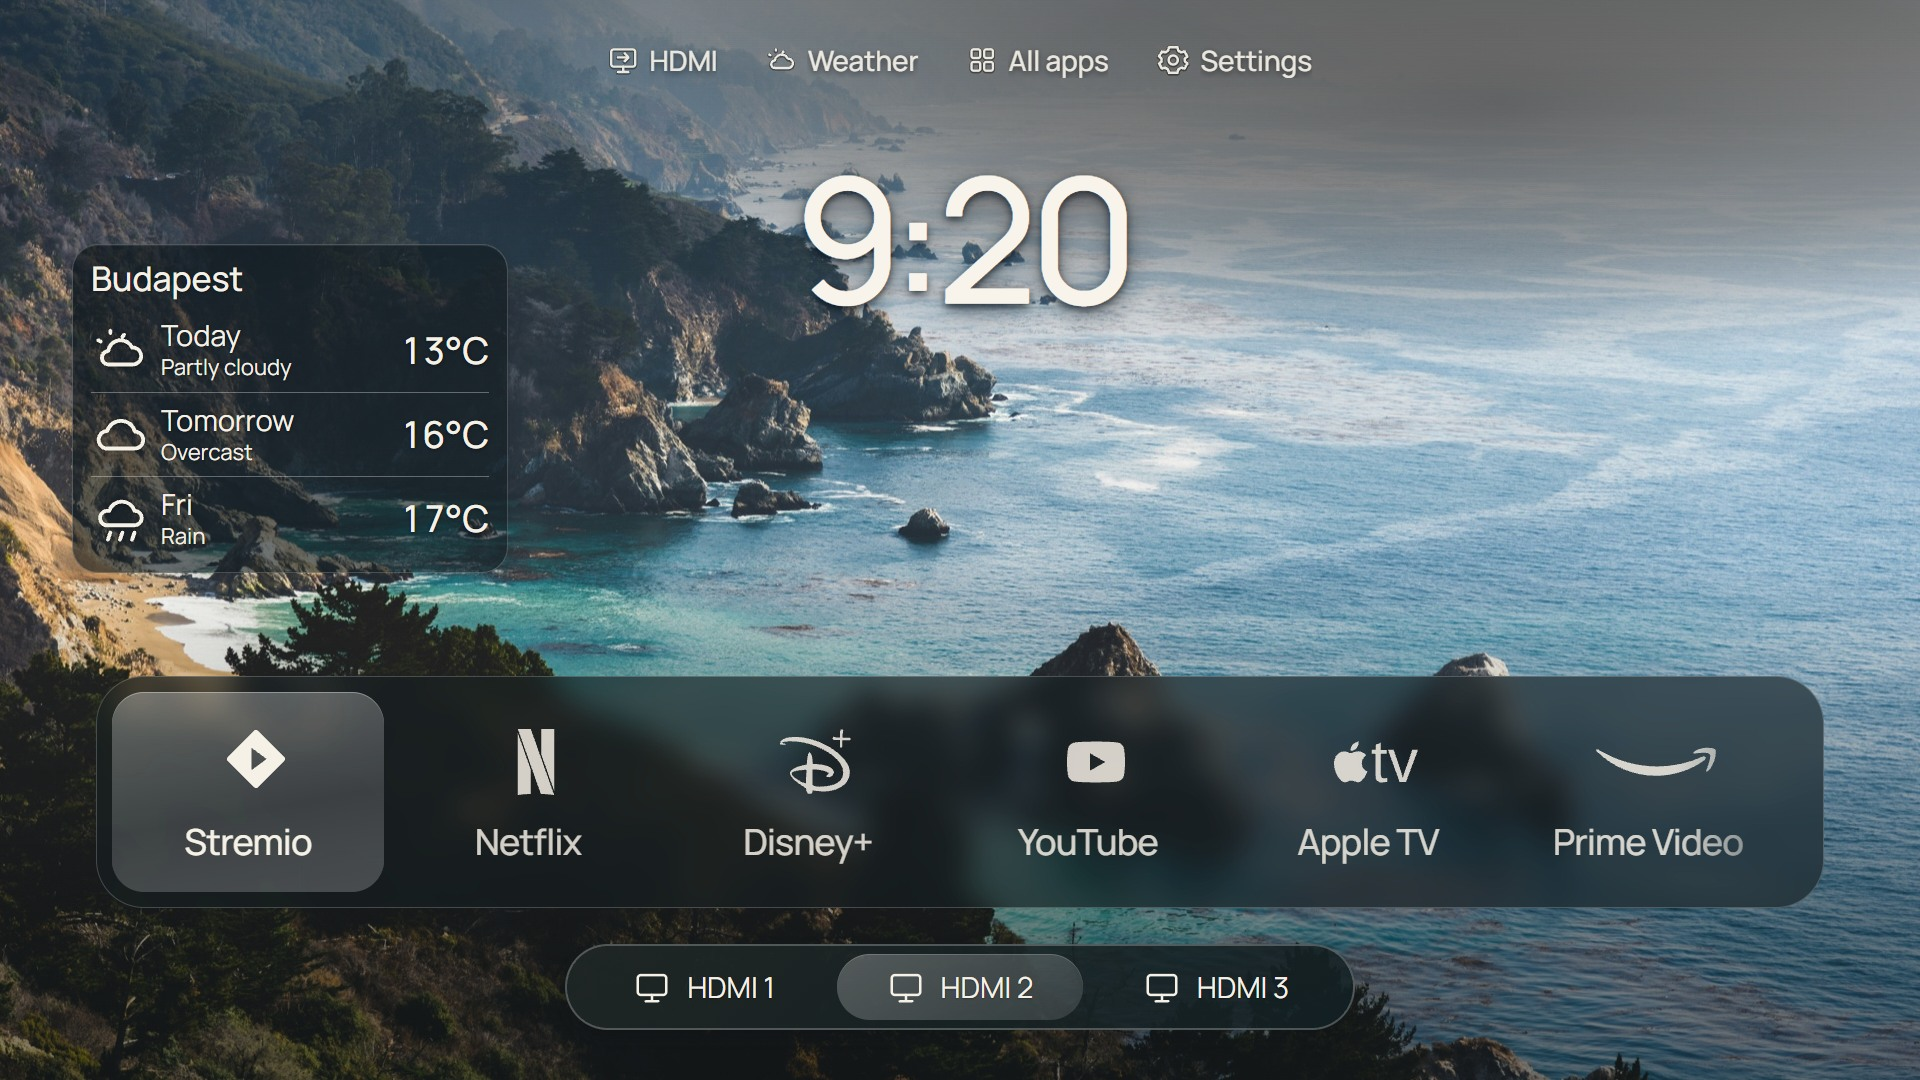
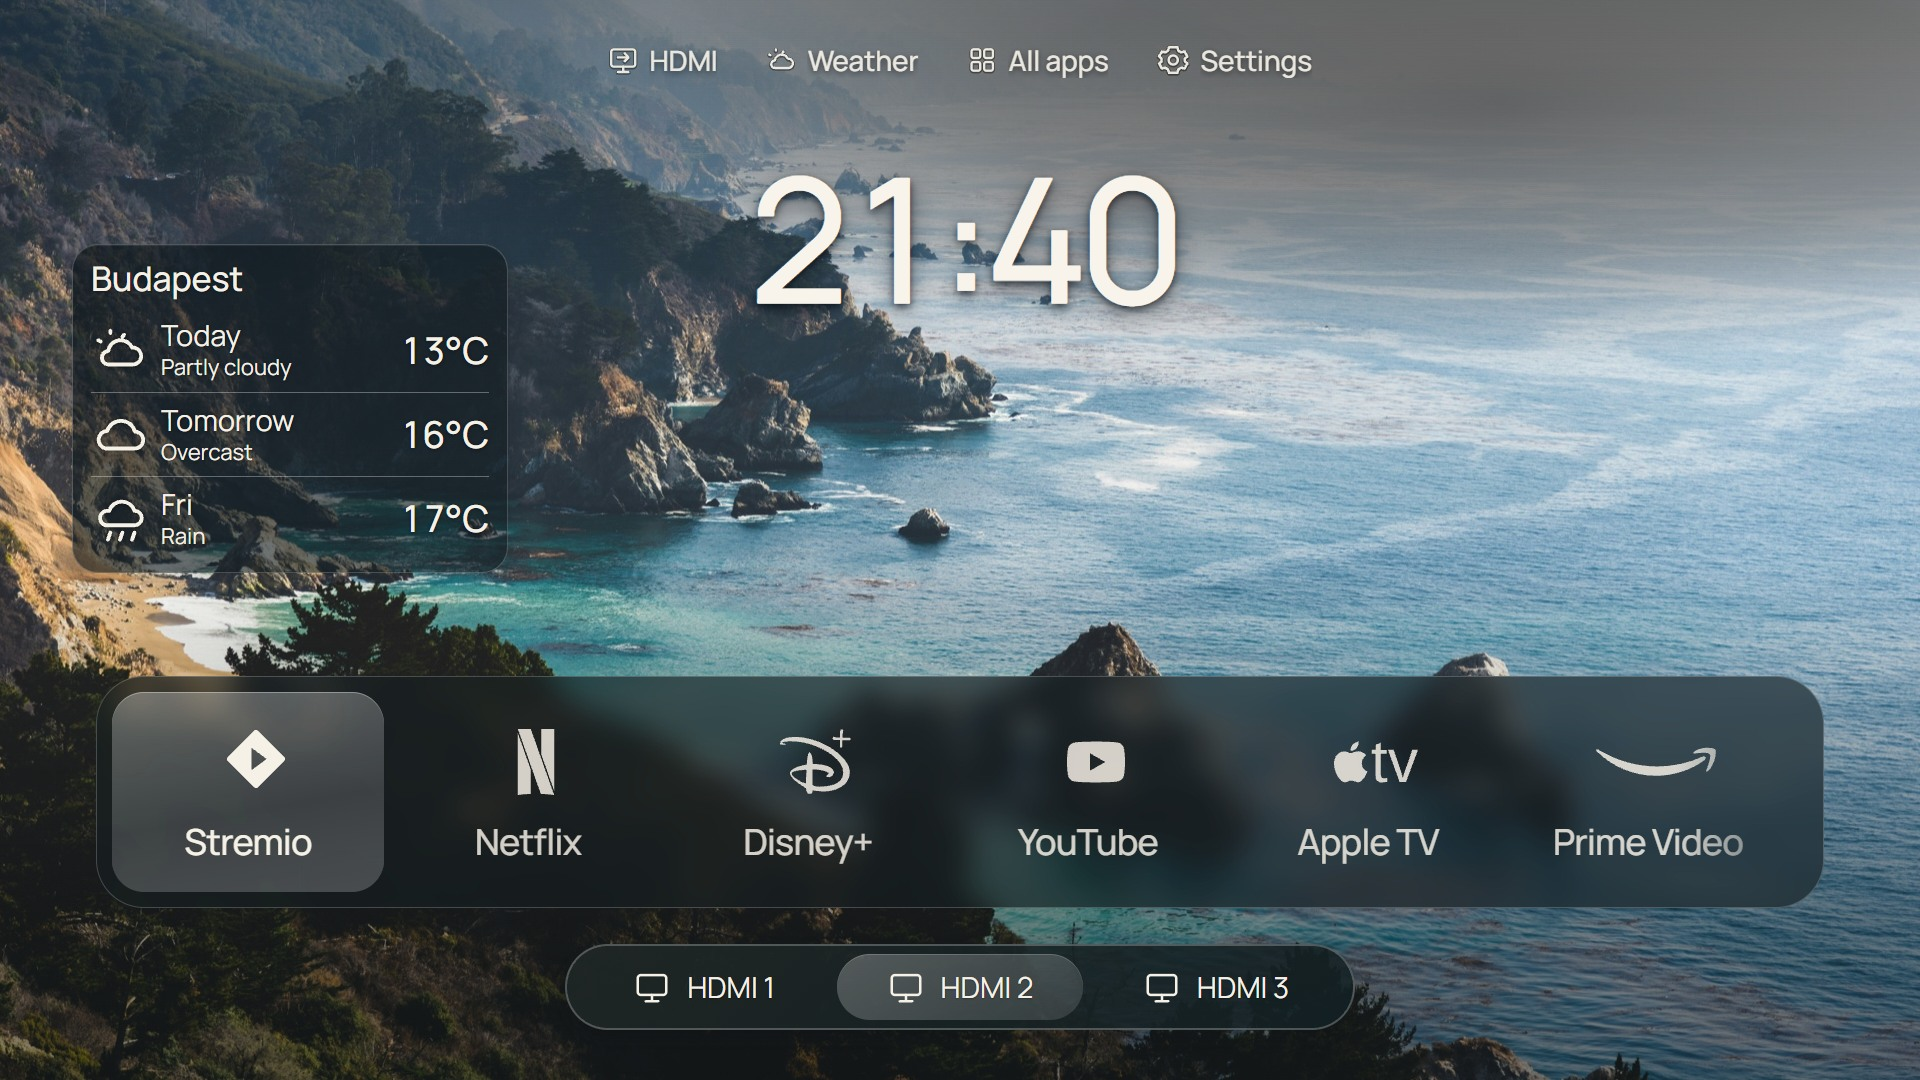
Document the public CleanFrame build and installation

Changed region(s): [[0.375, 0.1528, 0.625, 0.3056]]

diff --git a/samsung/cleanframe/README.md b/samsung/cleanframe/README.md
@@ -1,23 +1,69 @@
-# Build the local CleanFrame adaptation
+# Install CleanFrame 0.7.7 on a Samsung TV
 
-Use CleanFrame commit [845f332d083502fab39be49869052966103b564a](https://github.com/nthnclrk/CleanFrame/tree/845f332d083502fab39be49869052966103b564a). The archived 0.7.7 patch adds the HDMI manager and shortcuts, three-day weather, and the final Dock layout. The build script sets the local package identity and 24-hour clock. Its separately signed startup app opens CleanFrame from a Tizen Web Service. No native Home integration is part of the build.
+This adaptation of [Nathan Clark's CleanFrame](https://github.com/nthnclrk/CleanFrame) installs as a Tizen web app. Start with the launcher by itself. The separate startup helper is optional.
 
-1. In a clean checkout of the pinned upstream commit, apply this archive's `samsung/cleanframe/cleanframe-0.7.7.patch`. Replace the example path with the absolute path to your archive checkout.
+## 1. Prepare the TV and PC
 
-   ```text
-   git apply --check <archive-path>/samsung/cleanframe/cleanframe-0.7.7.patch
-   git apply <archive-path>/samsung/cleanframe/cleanframe-0.7.7.patch
-   python -B scripts/export-public.py
-   ```
+- Check your model and firmware in the TV's About or Support screen. The reference TV is a UE43RU7102KXXH running Tizen 5.0 with firmware T-MSLDEUC-1500.9. See the [device test record](../../docs/CLEANFRAME-TV.md).
+- Install Git, Python 3, and the Samsung TV development tools for VS Code, including Device Manager and Certificate Manager. Keep the TV and PC on the same local network. [Samsung VS Code SDK guide](https://developer.samsung.com/smarttv/develop/tools/additional-tools/vscode-extension-new.html)
+- On the TV, open **Apps**, enter **12345** using the remote or its virtual keypad, enable **Developer Mode**, and enter the PC's local IPv4 address. Restart the TV and connect to its current address in **Device Manager**. Confirm that the model shown in Device Manager is the one you intend to use. [Samsung device connection guide](https://developer.samsung.com/smarttv/develop/tools/additional-tools/vscode/connecting-to-tv-device.html)
+- Create a Samsung TV certificate profile. Include this TV's DUID in its distributor certificate and complete Samsung sign-in in Certificate Manager. Authorize the TV for app installation if Device Manager requires it. The launcher uses public privileges. Keep your author key for future updates and store all signing material outside the repository. [Samsung certificate guide](https://developer.samsung.com/smarttv/develop/tools/additional-tools/vscode/creating-certificates.html)
 
-   The export writes `dist/CleanFrame-public-unsigned.wgt`.
-2. Generate a TV web project in Samsung's SDK. Keep its `config.xml` to reuse the same app ID for future builds.
-3. From this archive's root, run:
+## 2. Build the unsigned widget
 
-   ```text
-   python -B samsung/cleanframe/build-cleanframe-local.py <upstream-public-unsigned.wgt> <sdk-project-config.xml>
-   ```
+Clone or download this repository. In VS Code, create a Samsung TV **web** project in a separate local folder. Its `config.xml` provides the generated package and application IDs. If updating an existing install, use its original manifest and author key to retain that identity.
 
-4. The script writes both unsigned WGT files into `dist/`. Sign them separately with Samsung's SDK using your local device-bound profile. The on-boot service uses a Partner distributor certificate. Install the CleanFrame widget first, then CleanFrame Startup, using the SDK. The TV needs no PC connection at runtime.
+Open PowerShell at this repository's root, then run the following. Replace the example SDK manifest path.
 
-See the [TV verification record](../../docs/CLEANFRAME-TV.md) for the exact scope of device checks. The upstream launcher and bundled assets are governed by the upstream [MIT license](LICENSE) and [third-party notices](THIRD_PARTY_NOTICES.md). The startup service was adapted from the MIT-licensed Free My TV implementation, with its notice bundled in the helper.
+```powershell
+$repo = (Get-Location).Path
+$upstream = Join-Path (Split-Path $repo -Parent) 'CleanFrame-upstream-0.7.7'
+$identity = 'C:\path\to\your\SDK-web-project\config.xml'
+$patch = Join-Path $repo 'samsung/cleanframe/cleanframe-0.7.7.patch'
+
+git clone --config core.autocrlf=false https://github.com/nthnclrk/CleanFrame.git $upstream
+git -C $upstream checkout --detach 845f332d083502fab39be49869052966103b564a
+git -C $upstream apply --check $patch
+git -C $upstream apply $patch
+
+Push-Location $upstream
+try { python -B scripts/export-public.py } finally { Pop-Location }
+
+python -B samsung/cleanframe/build-cleanframe-local.py (Join-Path $upstream 'dist/CleanFrame-public-unsigned.wgt') $identity
+```
+
+Use a fresh checkout if the target folder already contains another version or local edits. Stop on errors before continuing. The export uses public fonts. The final script prints the local application and package IDs and writes both unsigned widgets into the repository's ignored `dist/` directory.
+
+## 3. Sign, install, and test the launcher
+
+Use the SDK's `tz` and `sdb` tools. Replace the example executable paths, profile XML path, and profile name with the values from your own SDK setup. Use the exact serial listed by `sdb devices` for the TV you connected in Device Manager.
+
+```powershell
+$tz = 'C:\path\to\sdk\tz.exe'
+$sdb = 'C:\path\to\sdk\sdb.exe'
+$profiles = 'C:\path\to\your\profiles.xml'
+$profile = 'My Samsung TV profile'
+$unsigned = Join-Path $repo 'dist/CleanFrame-local-unsigned.wgt'
+$signed = Join-Path $repo 'dist/CleanFrame-local.wgt'
+
+& $tz pack --type wgt --base-pkg $unsigned --out-path $signed --profiles-path $profiles --sign-profile $profile
+& $sdb devices
+$serial = '<TV serial listed by sdb devices>'
+& $tz install --serial $serial --package-path $signed
+```
+
+Check that signing and install succeeded, then open **CleanFrame** from the TV's **Apps** screen. Test arrow keys, OK, Back/Return, app launches, live weather, and a connected HDMI input. Weather uses an editable city and sends forecast and city-search requests to Open-Meteo. The app can show its cached forecast when offline.
+
+If the SDK reports an install or signature failure, save the exact error, then verify the selected TV, distributor DUID, device authorization, and signing profile before rebuilding. Keep credentials, DUIDs, local IPs, and signed widgets out of bug reports. If needed, remove the launcher through **Samsung Apps → Settings**. [Samsung install troubleshooting](https://developer.samsung.com/smarttv/develop/tools/additional-tools/vscode/connecting-to-tv-device.html)
+
+## 4. Optional TV-local startup
+
+The optional `dist/CleanFrame-startup-unsigned.wgt` is a separate Tizen Web Service that targets the launcher app ID printed by the build. It requires a suitable **Partner** Samsung TV distributor profile and firmware support. If your SDK account cannot create or authorize that profile, stick with manual launch.
+
+After manual launch works, sign the helper with the same `tz pack` command using the helper's input and output filenames and your authorized Partner profile. Install it separately with `tz install`. Turn the TV off and back on with the remote and time when CleanFrame becomes visible. Test standby wake and cold boot separately. The helper runs on the TV and needs no PC watcher. Startup timing can vary. Remove **CleanFrame Startup** in **Samsung Apps → Settings** to turn off this behavior while keeping the launcher.
+
+## Credits
+
+- [Original CleanFrame project and source](https://github.com/nthnclrk/CleanFrame)
+- [CleanFrame MIT license](LICENSE) and [third-party asset notices](THIRD_PARTY_NOTICES.md)
+- [Free My TV](https://github.com/simbasjungles/free-my-tv), the basis for the optional startup service

diff --git a/README.md b/README.md
@@ -1,6 +1,35 @@
-# Samsung TV OS project archive
+# CleanFrame for Samsung Tizen 5.0
 
-**Project status: complete as an archive.** This repository records an x86-64 TV appliance and the signed Tizen apps tested on a physical Samsung UE43RU7102KXXH running Tizen 5.0. The appliance runs on a PC or VM over HDMI. The on-device work ran as applications on Samsung's stock Tizen.
+An independent adaptation of **[CleanFrame by Nathan Clark (nthnclrk)](https://github.com/nthnclrk/CleanFrame)**, the original launcher for Samsung The Frame. This project adapts the interface for an older Samsung TV and runs as a sideloaded Tizen web application alongside Samsung Smart Hub. The original project, design, and assets are credited to their respective authors.
+
+[Install on your TV](samsung/cleanframe/README.md) · [Give this guide to an AI agent](AGENTS.md) · [Compatibility and test results](docs/CLEANFRAME-TV.md)
+
+![CleanFrame 0.7.7 home screen with the clock, weather, app dock, and HDMI shortcuts](docs/screenshots/CleanFrame-0.7.7-preview.jpg)
+
+## What's included
+
+- A remote-friendly app dock with a top menu and a large 24-hour clock.
+- A three-day Celsius forecast on Home, a detailed forecast view, and an editable city. Weather requests go to Open-Meteo and the latest forecast is cached on the TV.
+- A Home HDMI strip and dedicated HDMI manager with input status and switching on supported TVs.
+- An optional TV-local startup helper for supported configurations. It needs a separate signing and testing step.
+
+## Screenshots
+
+These are browser captures of the 0.7.7 interface using sample weather and simulated HDMI devices. Installed apps and HDMI inputs vary by TV.
+
+| HDMI manager | Three-day forecast |
+| --- | --- |
+| ![HDMI input manager](docs/screenshots/CleanFrame-0.7.7-hdmi.jpg) | ![Weather forecast and city controls](docs/screenshots/CleanFrame-0.7.7-weather.jpg) |
+
+## Compatibility
+
+Samsung's developer tools confirmed installation and launch on a **UE43RU7102KXXH** running **Tizen 5.0** and firmware **T-MSLDEUC-1500.9**. HDMI switching and weather have browser test coverage. On-device behavior and support across other models may vary. The startup helper was installed on the reference TV. Immediate startup placement and final-build wake behavior remain unverified. See the [test record](docs/CLEANFRAME-TV.md).
+
+## Source and credits
+
+The [0.7.7 patch and build script](samsung/cleanframe/) use a pinned upstream CleanFrame snapshot and only the public font assets. See [the upstream MIT license](samsung/cleanframe/LICENSE) and [third-party notices](samsung/cleanframe/THIRD_PARTY_NOTICES.md). The optional startup service adapts [Free My TV](https://github.com/simbasjungles/free-my-tv) and includes its [MIT notice](samsung/free-my-tv/startup-helper/LICENSE).
+
+## Earlier Samsung TV OS experiments
 
 | Stage | Archived result |
 | --- | --- |
@@ -9,13 +38,4 @@
 | Free My TV | v1.5.0 ran on the physical TV. A separate Partner-signed service opened it on wake, with a reported delay of about 30 seconds from the TV picture to the launcher. Earlier Tizen acceptance did not improve the reported visible delay. See [install notes](docs/FREE-MY-TV.md) and [startup timings](docs/FREE-MY-TV-STARTUP-TEST.md). |
 | CleanFrame | Local 0.7.7 was installed and launched on the Samsung TV. It includes a centered 24-hour clock, three-day weather panel, and HDMI manager and shortcuts. The separate TV-local startup helper was reinstalled. See [the CleanFrame record](docs/CLEANFRAME-TV.md). |
 
-The final TV package listing for the cleanup confirmed that the two Free My TV entries were gone. The startup helper runs on the TV. Immediate first-screen launch was not achieved.
-
-## Rebuild and review
-
-- [CleanFrame adaptation and build instructions](samsung/cleanframe/README.md)
-- [Free My TV startup helper source](samsung/free-my-tv/startup-helper/)
-- [Build log](docs/BUILD-LOG.md) and [research notes](docs/RESEARCH.md)
-- [CleanFrame preview](docs/screenshots/CleanFrame-0.7.7-preview.jpg), [Debian appliance](docs/screenshots/TV-OS-Appliance.png), and [Coast preview](docs/screenshots/TV-OS-Coast-1.1-browser-test.png)
-
-Rebuild the ISO, persistence image and signed Tizen widgets locally. The archive uses placeholders for network addresses and excludes credentials, device IDs, signed packages and persistent user data. The upstream apps are pinned by source commit or release in the notes. Their own license and asset terms apply.
+The earlier Debian appliance targets PCs and virtual machines. See the [appliance guide](APPLIANCE.md) or [research notes](docs/RESEARCH.md) for that work.

diff --git a/AGENTS.md b/AGENTS.md
@@ -1,0 +1,15 @@
+# Install this CleanFrame build with an AI agent
+
+Give the agent this file or point it at the repository and use this prompt:
+
+> Help me install the custom CleanFrame 0.7.7 Tizen app in this repository on my Samsung TV. Follow AGENTS.md and the linked installation guide. Reuse my local Samsung SDK setup if possible. Start with manual launch and guide me through the steps that require my TV remote or Samsung sign-in.
+
+## Agent instructions
+
+1. Read the [installation guide](samsung/cleanframe/README.md) and [TV test record](docs/CLEANFRAME-TV.md). The reference install is a Samsung UE43RU7102KXXH, Tizen 5.0, firmware T-MSLDEUC-1500.9. Treat other devices as unverified and record the actual model and firmware.
+2. Inspect the PC for Git, Python 3, Samsung's TV SDK, Device Manager and Certificate Manager. Reuse existing tools. Confirm the target with the owner if multiple TVs are connected. Guide the owner through Developer Mode, entering the PC address and Samsung sign-in when needed. Let them enter signing passwords directly in their local tools.
+3. Use the pinned upstream [CleanFrame](https://github.com/nthnclrk/CleanFrame) commit and the repository's patch. Apply it in a separate checkout. Export the public-font widget and use a Samsung SDK-generated `config.xml` for the target identity. For an update, preserve the original application ID and author certificate.
+4. Build and sign locally with the correct Samsung TV certificate. Confirm the target in Device Manager or `sdb devices` before installing. Install only the foreground launcher for the first test. Use normal SDK procedures and keep this task within app installation. Leave any existing Home assignment, firmware, and system apps alone.
+5. Have the owner launch the app manually and report on navigation, Back/Return, apps, live weather and a connected HDMI source. Record separately what the SDK confirmed and what the owner saw. If a step fails, capture the exact sanitized error and diagnose it before retrying.
+6. Treat the optional Partner-signed startup helper as a separate step. Install it only if the owner explicitly asks and manual launch is already working. Confirm timing on the actual TV and provide the uninstall path.
+7. Keep certificates, passwords, signing profiles, DUIDs, local addresses, signed widgets, and private SDK data out of Git and shared logs. Report the app version, model, tested behavior, and any blocker. Show how to remove the app in Samsung Apps settings.
